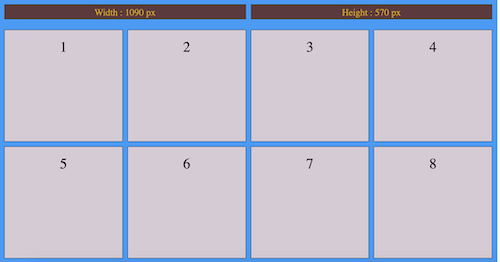
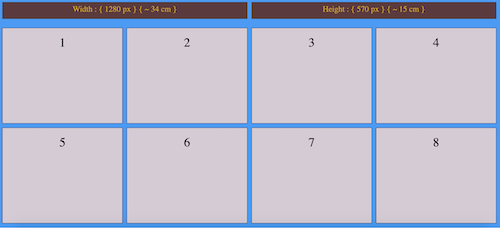
grid with screen size measurement

diff --git a/examples/css_grid_with_screen_size_ruler/script.js b/examples/css_grid_with_screen_size_ruler/script.js
@@ -1,11 +1,90 @@
-function calculage_screen_size() {
-  var width = window.innerWidth;
-  var height = window.innerHeight;
-  document.getElementById("display_width_area").innerHTML =
-    " Width : " + width + " px ";
-  document.getElementById("display_height_area").innerHTML =
-    " Height : " + height + " px ";
+var units_in_cm = 1; /* make it 0 to display in inches*/
+
+var pixel_per_inch = 96; /* 96 pixels */
+
+function inch2cm(value) {
+  return value * 2.54;
 }
 
-calculage_screen_size();
-window.addEventListener("resize", calculage_screen_size);
+function inch2mm(value) {
+  return value * 25.4;
+}
+
+function pixel2inch(n_pixel) {
+  var value = n_pixel / pixel_per_inch;
+  return value;
+}
+
+function pixel2cm(n_pixel) {
+  var value_in = pixel2inch(n_pixel);
+  var value_cm = inch2cm(value_in);
+  return value_cm;
+}
+
+function calculage_screen_size_in() {
+  var width = window.innerWidth;
+  var height = window.innerHeight;
+
+  document.getElementById("display_width_area").innerHTML =
+    " Width : { " +
+    width +
+    " px } { " +
+    Math.round(pixel2inch(width)) +
+    " inch }";
+
+  document.getElementById("display_height_area").innerHTML =
+    " Height : { " +
+    height +
+    " px } { " +
+    Math.round(pixel2inch(height)) +
+    " inch }";
+}
+
+function calculage_screen_size_cm() {
+  var width = window.innerWidth;
+  var height = window.innerHeight;
+
+  document.getElementById("display_width_area").innerHTML =
+    " Width : { " +
+    width +
+    " px }  { ~ " +
+    Math.round(pixel2cm(width)) +
+    " cm } ";
+
+  document.getElementById("display_height_area").innerHTML =
+    " Height : { " +
+    height +
+    " px } { ~ " +
+    Math.round(pixel2cm(height)) +
+    " cm } ";
+}
+
+if (units_in_cm == 1) {
+  calculage_screen_size_cm();
+  window.addEventListener("resize", calculage_screen_size_cm);
+} else {
+  calculage_screen_size_in();
+  window.addEventListener("resize", calculage_screen_size_in);
+}
+
+/* Pixel Width Calculation */
+/*
+
+Create 4 Square Grids Measurements
+
+Pixel = Width / number of grids
+
+Keep the same measurement for height and width 
+
+Width = 1200   =>  [ 1200 / 4  ]  => [ 4 x 400px grids ]    
+Width = 1100   =>  [ Width / 4 ]  => [ 4 x 275px grids ]
+Width = 1000   =>  [ Width / 4 ]  => [ 4 x 250px grids ]
+Width =  900   =>  [ Width / 4 ]  => [ 4 x 225px grids ]
+Width =  800   =>  [ Width / 4 ]  => [ 4 x 200px grids ]
+Width =  700   =>  [ Width / 4 ]  => [ 4 x 175px grids ]
+Width =  600   =>  [ Width / 4 ]  => [ 4 x 150px grids ]
+Width =  500   =>  [ Width / 4 ]  => [ 4 x 125px grids ]
+Width =  400   =>  [ Width / 4 ]  => [ 4 x 100px grids ]
+Width =  300   =>  [ Width / 4 ]  => [ 4 x 75px  grids ]
+
+*/

diff --git a/examples/css_grid_with_screen_size_ruler/style.css b/examples/css_grid_with_screen_size_ruler/style.css
@@ -14,7 +14,7 @@
   color: goldenrod;
   background-color: rgba(102, 34, 15, 0.8);
   border: 1px solid rgba(25, 83, 83, 0.8);
-  height: 20px; /* row height*/
+  height: 30px; /* grid row height*/
   padding-top: 5px;
   padding-bottom: 5px;
   padding-left: 20px;
@@ -50,12 +50,12 @@
   .grid-container {
     grid-template-columns: auto;
   }
-  .header-grid-item {
-    font-size: 13px;
+  .header-grid {
+    grid-template-columns: 1fr;
   }
-}
-
-@media (max-width: 700px) {
+  .header-grid-item {
+    font-size: 20px;
+  }
 }
 
 /* Property for screen width less than or equal to 500px */
@@ -68,6 +68,6 @@
     grid-template-columns: 1fr;
   }
   .header-grid-item {
-    font-size: 13px;
+    font-size: 20px;
   }
 }
